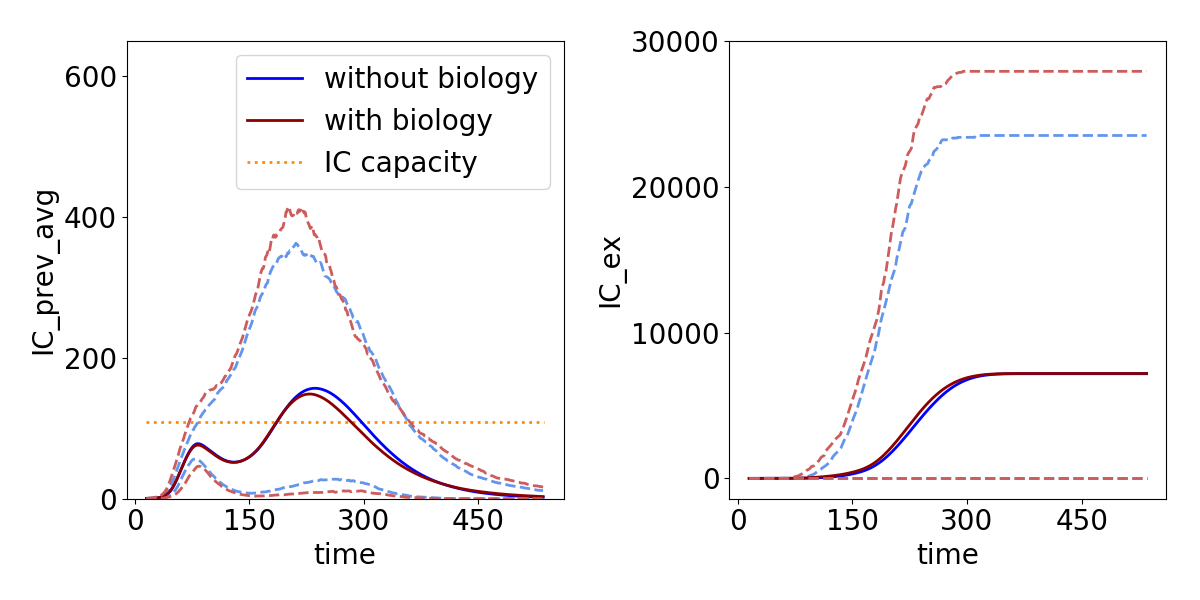
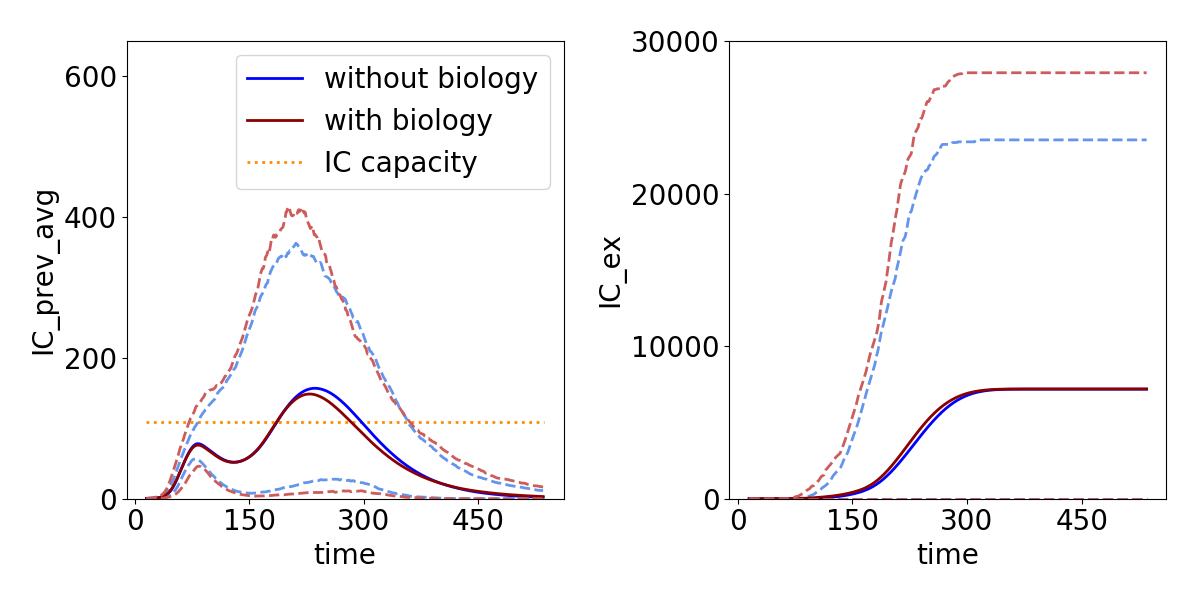
set yaxis limit for IC_ex

diff --git a/EasyVVUQ/mean_CI_ranking_corona.py b/EasyVVUQ/mean_CI_ranking_corona.py
@@ -119,6 +119,7 @@ ax_e.plot(t[15:-15], IC_ex_bio[15:-15,-n_burn-1], linestyle='--', lw=2, color='i
 # general settings
 ax_e.set_xticks([0, 150, 300, 450])
 ax_e.set_yticks([0, 1e4, 2e4, 3e4])
+ax_e.set_ylim([0, 3e4])
 
 plt.tight_layout()
 f.savefig('figures/QoIs_FC_MC1000_ranking.pdf')
